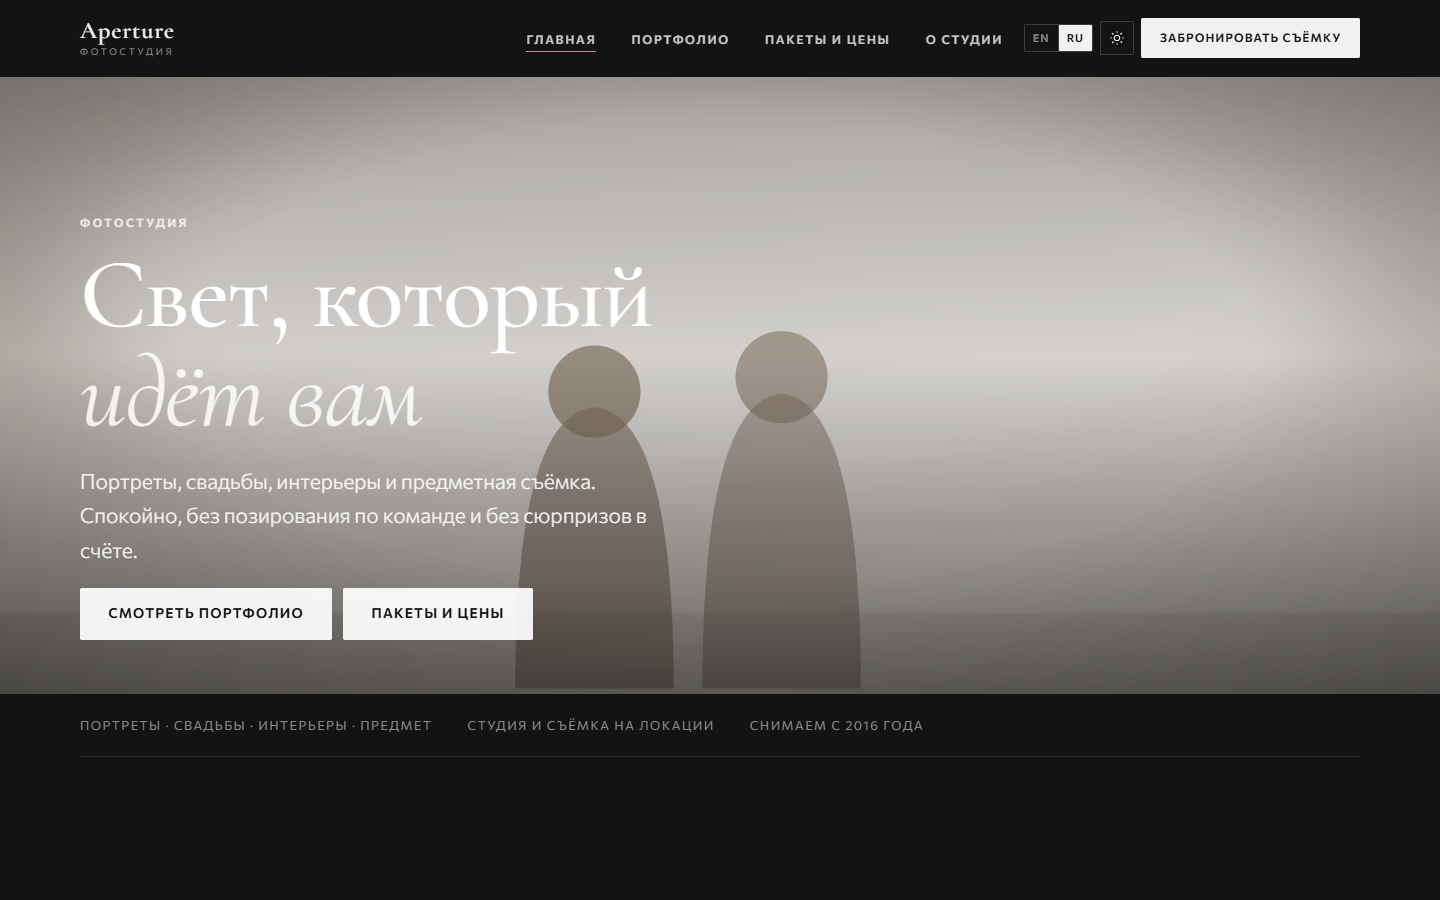
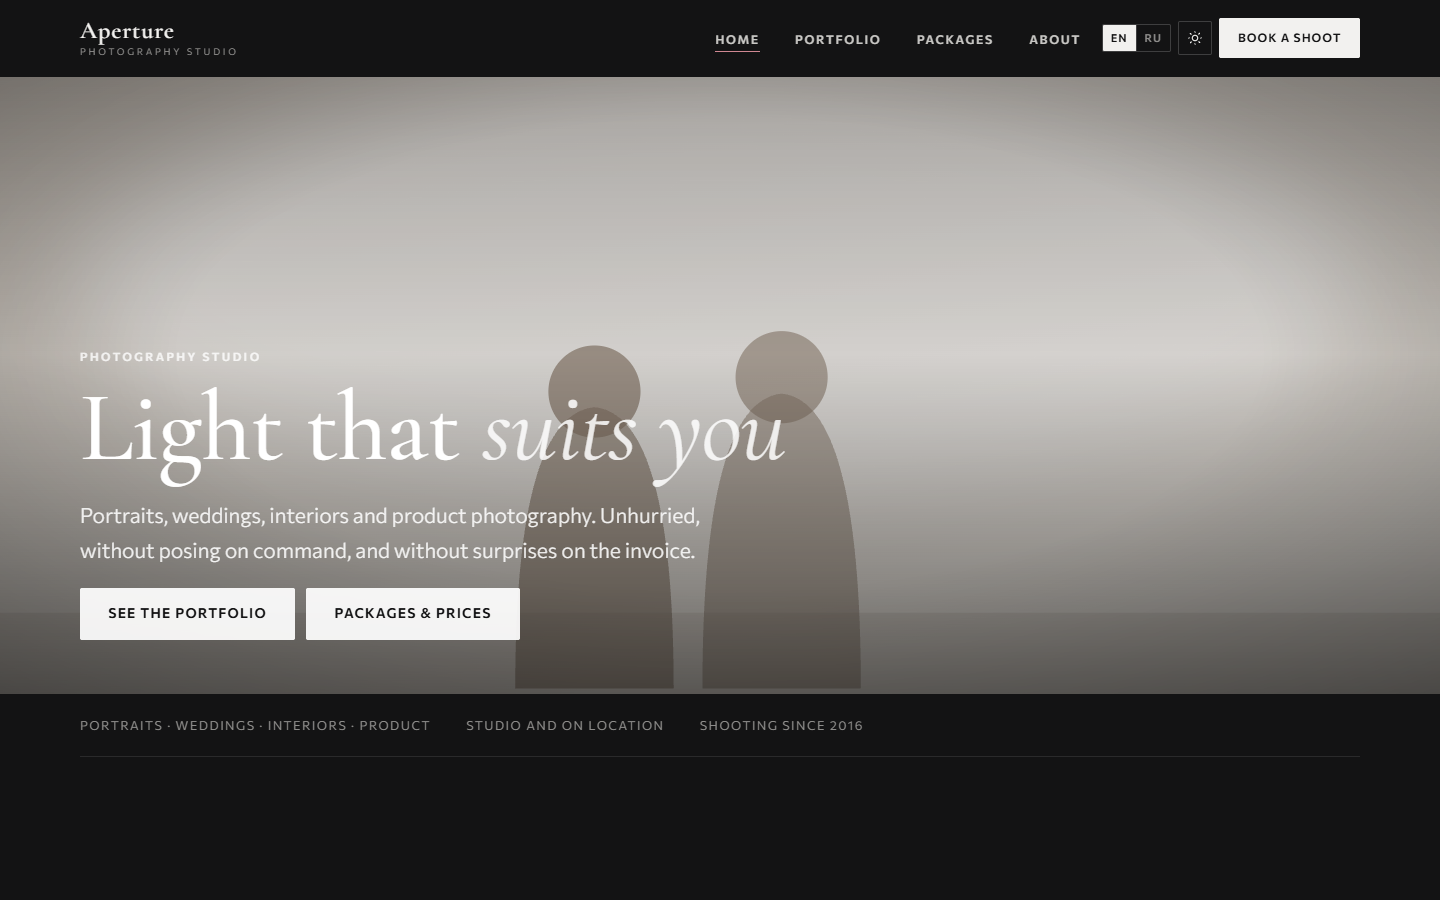
Site files, README and preview

diff --git a/index.html b/index.html
@@ -24,7 +24,7 @@
   var p = location.search.match(/[?&]lang=([a-z]{2})/i);
   if (p && langs.indexOf(p[1].toLowerCase()) > -1) lang = p[1].toLowerCase();
   if (!lang) { try { var s = localStorage.getItem('ap-lang'); if (langs.indexOf(s) > -1) lang = s; } catch (e) {} }
-  if (!lang) { lang = /^ru/i.test(navigator.language || '') ? 'ru' : 'en'; }
+  if (!lang) { lang = 'en'; }
   d.setAttribute('data-lang', lang);
   if (lang !== 'en') { d.className += ' i18n-pending'; setTimeout(function () { d.classList.remove('i18n-pending'); }, 1200); }
   try { var t = localStorage.getItem('ap-theme'); if (t) d.setAttribute('data-theme', t); } catch (e) {}

diff --git a/portfolio.html b/portfolio.html
@@ -24,7 +24,7 @@
   var p = location.search.match(/[?&]lang=([a-z]{2})/i);
   if (p && langs.indexOf(p[1].toLowerCase()) > -1) lang = p[1].toLowerCase();
   if (!lang) { try { var s = localStorage.getItem('ap-lang'); if (langs.indexOf(s) > -1) lang = s; } catch (e) {} }
-  if (!lang) { lang = /^ru/i.test(navigator.language || '') ? 'ru' : 'en'; }
+  if (!lang) { lang = 'en'; }
   d.setAttribute('data-lang', lang);
   if (lang !== 'en') { d.className += ' i18n-pending'; setTimeout(function () { d.classList.remove('i18n-pending'); }, 1200); }
   try { var t = localStorage.getItem('ap-theme'); if (t) d.setAttribute('data-theme', t); } catch (e) {}

diff --git a/pricing.html b/pricing.html
@@ -24,7 +24,7 @@
   var p = location.search.match(/[?&]lang=([a-z]{2})/i);
   if (p && langs.indexOf(p[1].toLowerCase()) > -1) lang = p[1].toLowerCase();
   if (!lang) { try { var s = localStorage.getItem('ap-lang'); if (langs.indexOf(s) > -1) lang = s; } catch (e) {} }
-  if (!lang) { lang = /^ru/i.test(navigator.language || '') ? 'ru' : 'en'; }
+  if (!lang) { lang = 'en'; }
   d.setAttribute('data-lang', lang);
   if (lang !== 'en') { d.className += ' i18n-pending'; setTimeout(function () { d.classList.remove('i18n-pending'); }, 1200); }
   try { var t = localStorage.getItem('ap-theme'); if (t) d.setAttribute('data-theme', t); } catch (e) {}
